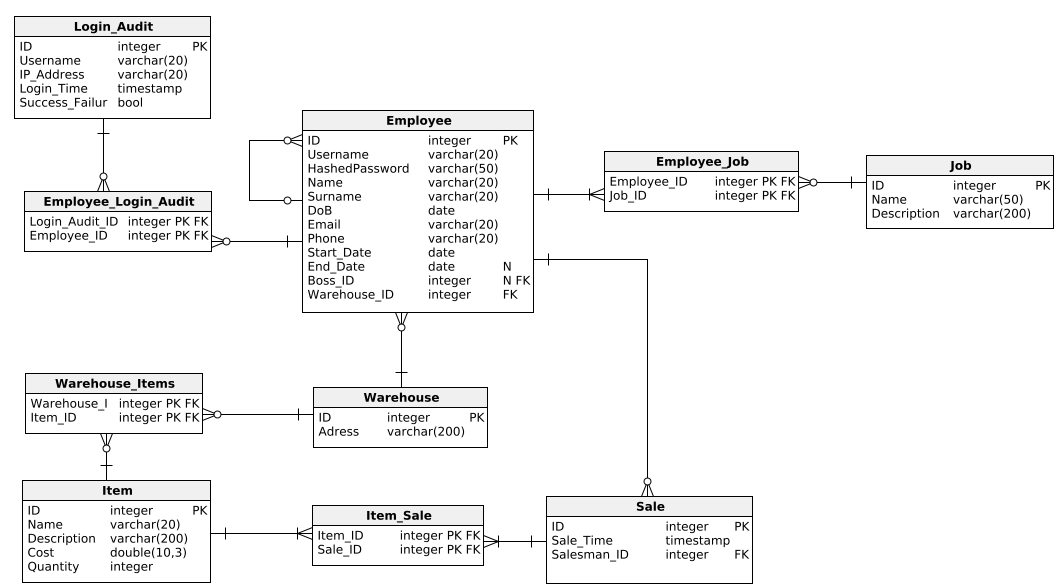
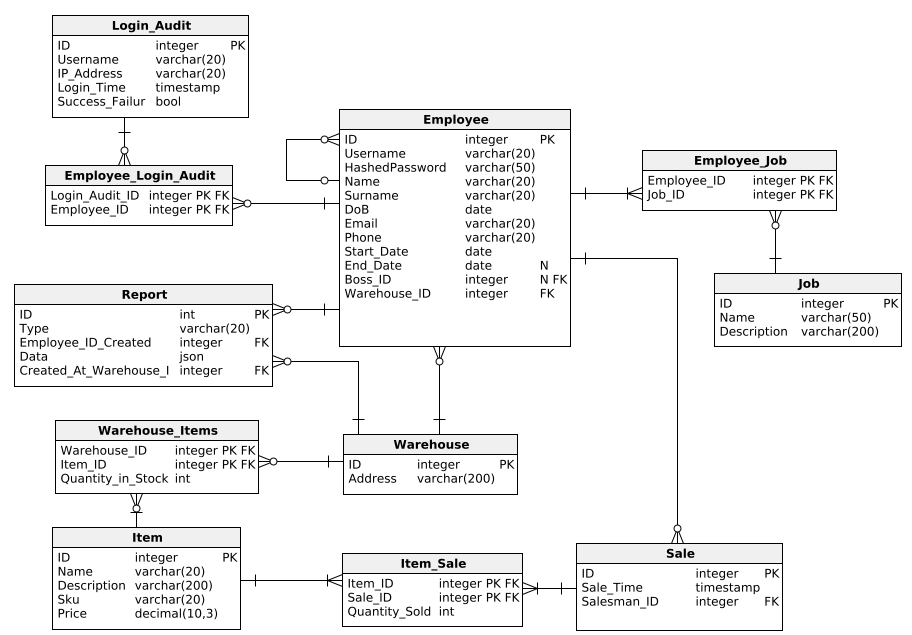
Huge Update: Entity Diagram & DB Redesigned
The whole database structure has been redesigned to properly keep track of the number of units of items in a sale and at warehouses. It also brings in the edition of the Report entity and includes a few overall fixes

Changed region(s): [[0.0, 0.0, 1.0, 1.0], [0.7675, 0.4286, 1.0, 0.551], [0.5833, 0.398, 0.7368, 0.4898]]

diff --git a/src/main/java/vortex/imwp/Models/Response.java b/src/main/java/vortex/imwp/Models/Response.java
@@ -1,0 +1,27 @@
+package vortex.imwp.Models;
+
+public class Response {
+    private Object data;
+    private String message;
+    private boolean success;
+
+    public Response() {}
+    public Response(Object data) {}
+    public Response(Object data, String message) {
+        this.data = data;
+        this.message = message;
+    }
+    public Response(Object data, String message, boolean success) {
+        this.data = data;
+        this.message = message;
+        this.success = success;
+    }
+
+    public Object getData() { return data; }
+    public String getMessage() { return message; }
+    public boolean isSuccess() { return success; }
+
+    public void setData(Object data) { this.data = data; }
+    public void setMessage(String message) { this.message = message; }
+    public void setSuccess(boolean success) { this.success = success; }
+}
